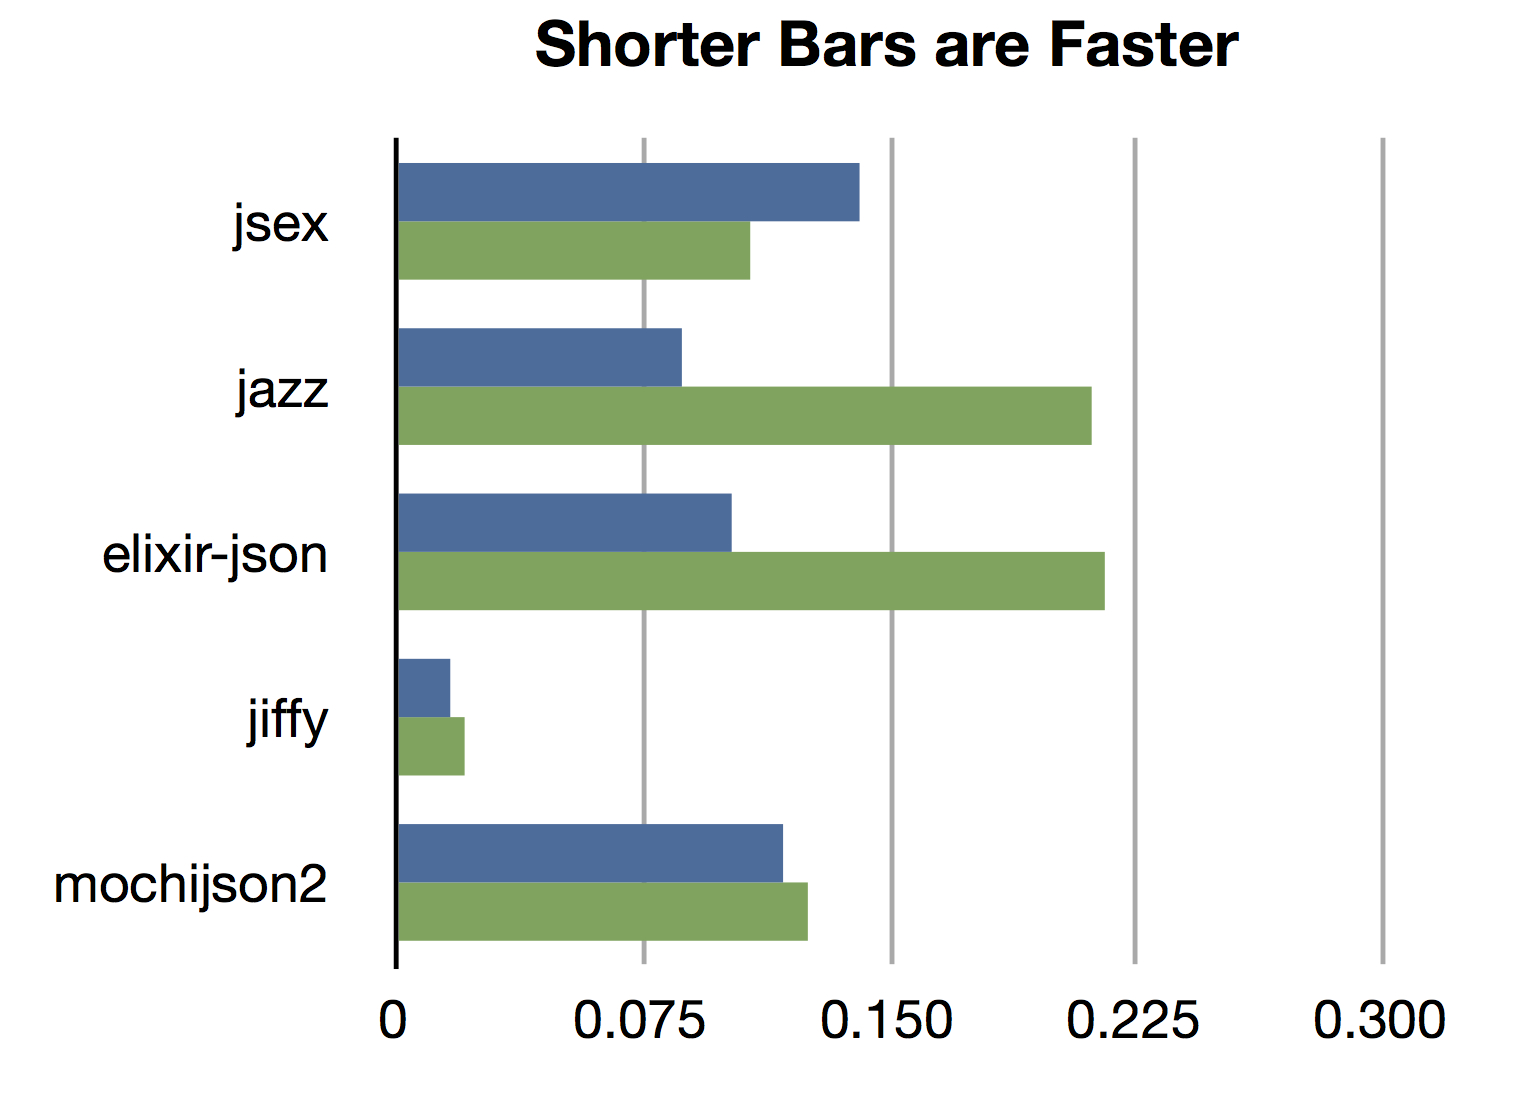
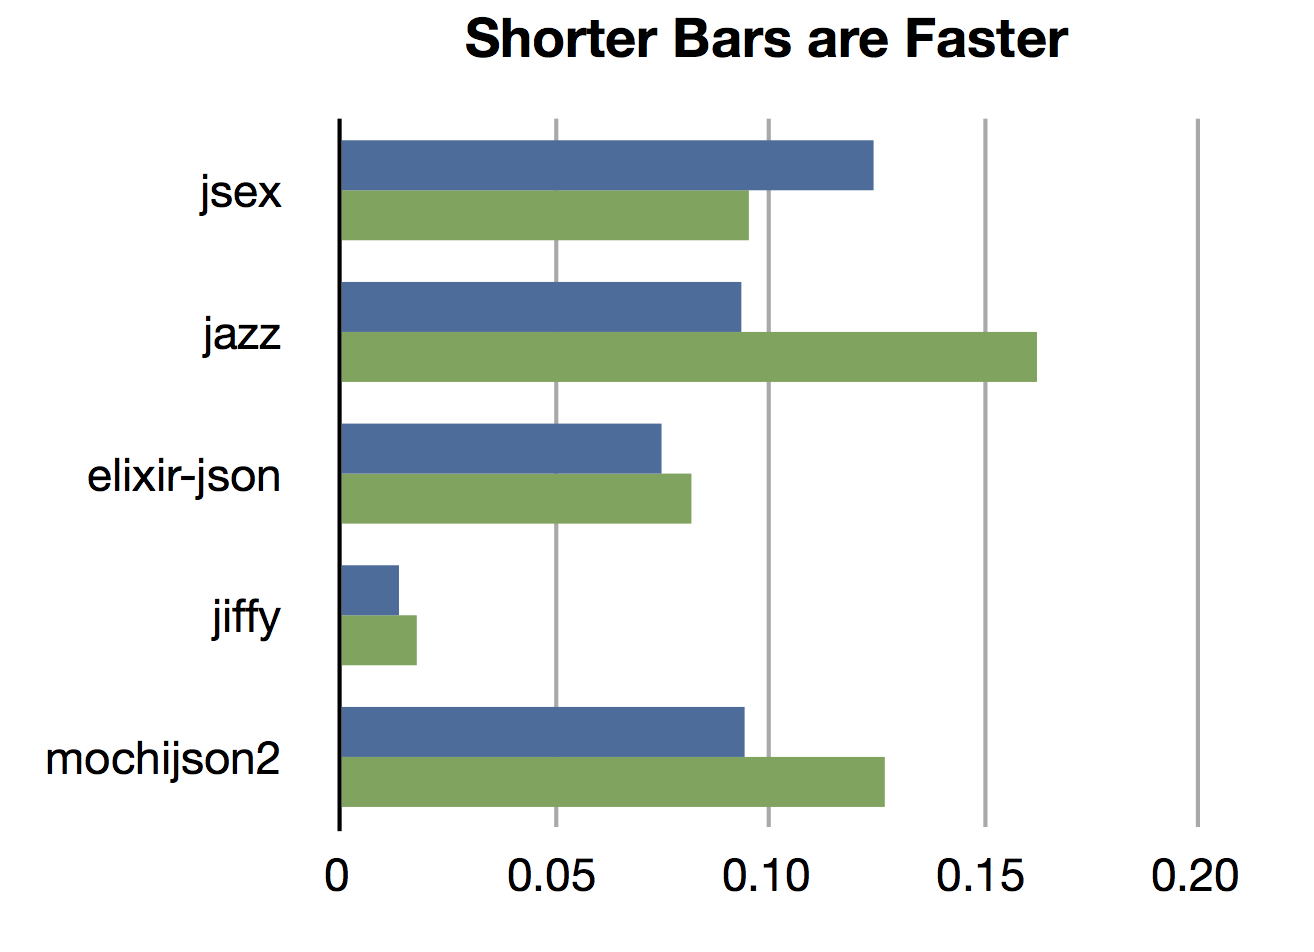
reran tests at same time/situation to increase consistency

diff --git a/README.md b/README.md
@@ -12,26 +12,11 @@ Test data from: http://www.json-generator.com
 	iex(1)> Shootout.timed_run
 
 ## Results
-Times in Seconds. Blue is Encode, Green is Decode. 500k file "test.json"
+Times in Seconds. Blue is Encode, Green is Decode. 500k file "test.json".
+
+Results are taken from running all encoders multiple times on the same machine in the same time period, under Elixir 10.2-dev.
+Decode times were observed to be fairly variable. A better test would be to run many iterations to collect statistical results.
+
 
 ![results chart](https://raw.github.com/n1rvana/Shootout/master/chart.jpg "Results")
 
-### Results from jsex: (Elixir wrapper around jsx)
-
-"test.json" Results: Decode: 0.107636s Encode: 0.14087s
-
-### Results from jazz: (Elixir + Elang yecc)
-
-"test.json" Results: Decode: 0.211439s Encode: 0.086853s
-
-### Results from elixir-json: (Pure Elixir)
-
-"test.json" Results: Decode: 0.215432s Encode: 0.101999s
-
-### Results from jiffy: (NIF)
-
-"test.json" Results: Decode: 0.020808s Encode: 0.016446s
-
-### Results from mochijson2: (Erlang)
-
-"test.json" Results: Decode: 0.125149s Encode: 0.117624s
